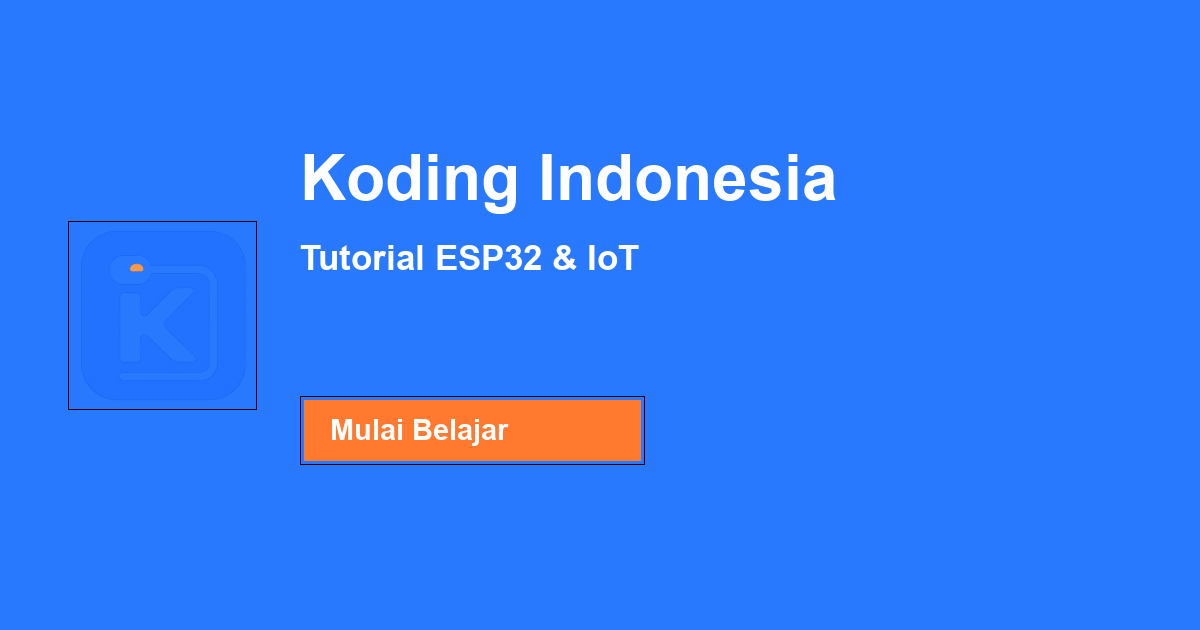
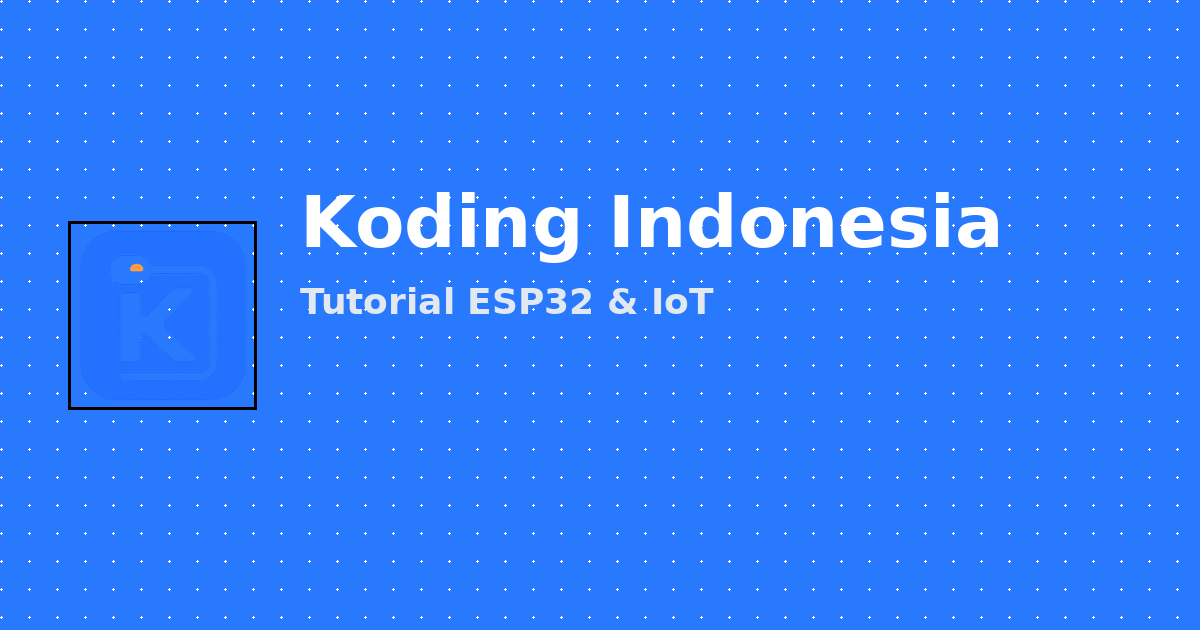
Fix Facebook OG preview missing description.
Simplify og-default image by removing fake CTA button, improve og:description copy, and add og:image:secure_url for better social crawler compatibility.

diff --git a/scripts/generate-brand-assets.php b/scripts/generate-brand-assets.php
@@ -85,66 +85,12 @@ if (is_resource($proc)) {
     echo "Wrote favicon.ico\n";
 }
 
-$ogScript = <<<'PY'
-from PIL import Image, ImageDraw, ImageFont
-import sys
-
-W, H = 1200, 630
-logo_path, og_source, out_path = sys.argv[1], sys.argv[2], sys.argv[3]
-
-def load_font(size, bold=True):
-    candidates = [
-        '/usr/share/fonts/truetype/dejavu/DejaVuSans-Bold.ttf',
-        '/usr/share/fonts/truetype/liberation/LiberationSans-Bold.ttf',
-        'C:/Windows/Fonts/arialbd.ttf',
-        'C:/Windows/Fonts/arial.ttf',
-    ]
-    for path in candidates:
-        try:
-            return ImageFont.truetype(path, size)
-        except OSError:
-            continue
-    return ImageFont.load_default()
-
-img = Image.new('RGB', (W, H), '#2979FF')
-draw = ImageDraw.Draw(img)
-
-# Subtle grid dots
-for x in range(0, W, 28):
-    for y in range(0, H, 28):
-        draw.ellipse([x, y, x + 2, y + 2], fill='#ffffff18')
-
-# Logo block
-logo = Image.open(logo_path).convert('RGBA')
-logo = logo.resize((180, 180), Image.Resampling.LANCZOS)
-lx, ly = 72, (H - 180) // 2
-img.paste(logo, (lx, ly), logo)
-draw.rectangle([lx - 4, ly - 4, lx + 184, ly + 184], outline='#000000', width=3)
-
-# Headline + subtitle
-title_font = load_font(72)
-sub_font = load_font(34, bold=False)
-tx = 300
-draw.text((tx, 150), 'Koding Indonesia', fill='#FFFFFF', font=title_font)
-draw.text((tx, 250), 'Tutorial ESP32 & IoT', fill='#E2E8F0', font=sub_font)
-draw.text((tx, 300), 'Berbahasa Indonesia', fill='#E2E8F0', font=sub_font)
-
-# CTA button (neo-brutal)
-btn_x1, btn_y1, btn_x2, btn_y2 = tx, 390, tx + 340, 470
-draw.rectangle([btn_x1 + 4, btn_y1 + 4, btn_x2 + 4, btn_y2 + 4], fill='#000000')
-draw.rectangle([btn_x1, btn_y1, btn_x2, btn_y2], fill='#FF7A2F', outline='#000000', width=3)
-cta_font = load_font(30)
-draw.text((btn_x1 + 36, btn_y1 + 22), 'Mulai Belajar →', fill='#FFFFFF', font=cta_font)
-
-img.save(out_path, 'PNG')
-PY;
-
+$ogPy = $root . '/scripts/generate-og-image.py';
 $tmpOg = $public . '/og-default-tmp.png';
 $pyCmd = sprintf(
-    'python -c %s %s %s %s',
-    escapeshellarg($ogScript),
+    'python %s %s %s',
+    escapeshellarg($ogPy),
     escapeshellarg($public . '/logo.png'),
-    escapeshellarg($ogSource),
     escapeshellarg($tmpOg)
 );
 
@@ -153,7 +99,7 @@ exec($pyCmd . ' 2>&1', $pyOut, $pyCode);
 if ($pyCode === 0 && is_file($tmpOg)) {
     foreach (['og-default.png', 'images/og-default.png'] as $relative) {
         copy($tmpOg, $public . '/' . $relative);
-        echo "Wrote {$relative} (with headline + CTA)\n";
+        echo "Wrote {$relative} (clean headline layout)\n";
     }
     unlink($tmpOg);
     $pyOk = true;
@@ -188,16 +134,11 @@ if (! $pyOk) {
     }
 
     if ($font) {
-        imagettftext($canvas, 48, 0, 300, 200, $white, $font, 'Koding Indonesia');
-        imagettftext($canvas, 26, 0, 300, 270, $white, $font, 'Tutorial ESP32 & IoT');
-        imagefilledrectangle($canvas, 304, 400, 640, 460, $orange);
-        imagerectangle($canvas, 300, 396, 644, 464, $black);
-        imagettftext($canvas, 22, 0, 330, 440, $white, $font, 'Mulai Belajar');
+        imagettftext($canvas, 48, 0, 300, 220, $white, $font, 'Koding Indonesia');
+        imagettftext($canvas, 26, 0, 300, 290, $white, $font, 'Tutorial ESP32 & IoT');
     } else {
-        imagestring($canvas, 5, 300, 180, 'Koding Indonesia', $white);
-        imagestring($canvas, 4, 300, 250, 'Tutorial ESP32 & IoT', $white);
-        imagefilledrectangle($canvas, 300, 390, 640, 450, $orange);
-        imagestring($canvas, 4, 330, 410, 'Mulai Belajar', $white);
+        imagestring($canvas, 5, 300, 200, 'Koding Indonesia', $white);
+        imagestring($canvas, 4, 300, 270, 'Tutorial ESP32 & IoT', $white);
     }
 
     foreach (['og-default.png', 'images/og-default.png'] as $relative) {

diff --git a/scripts/generate-og-image.py b/scripts/generate-og-image.py
@@ -1,0 +1,42 @@
+from PIL import Image, ImageDraw, ImageFont
+import sys
+
+W, H = 1200, 630
+logo_path, out_path = sys.argv[1], sys.argv[2]
+
+
+def load_font(size, bold=True):
+    candidates = [
+        '/usr/share/fonts/truetype/dejavu/DejaVuSans-Bold.ttf',
+        '/usr/share/fonts/truetype/liberation/LiberationSans-Bold.ttf',
+        'C:/Windows/Fonts/arialbd.ttf',
+        'C:/Windows/Fonts/arial.ttf',
+    ]
+    for path in candidates:
+        try:
+            return ImageFont.truetype(path, size)
+        except OSError:
+            continue
+    return ImageFont.load_default()
+
+
+img = Image.new('RGB', (W, H), '#2979FF')
+draw = ImageDraw.Draw(img)
+
+for x in range(0, W, 28):
+    for y in range(0, H, 28):
+        draw.ellipse([x, y, x + 2, y + 2], fill='#ffffff18')
+
+logo = Image.open(logo_path).convert('RGBA')
+logo = logo.resize((180, 180), Image.Resampling.LANCZOS)
+lx, ly = 72, (H - 180) // 2
+img.paste(logo, (lx, ly), logo)
+draw.rectangle([lx - 4, ly - 4, lx + 184, ly + 184], outline='#000000', width=3)
+
+title_font = load_font(72)
+sub_font = load_font(36, bold=False)
+tx = 300
+draw.text((tx, 180), 'Koding Indonesia', fill='#FFFFFF', font=title_font)
+draw.text((tx, 280), 'Tutorial ESP32 & IoT', fill='#E2E8F0', font=sub_font)
+
+img.save(out_path, 'PNG')

diff --git a/resources/views/components/layouts/app.blade.php b/resources/views/components/layouts/app.blade.php
@@ -18,11 +18,12 @@
         $pageTitle = $title ?? 'Koding Indonesia — Tutorial ESP32 & IoT';
         $metaDescription = $description ?? 'Belajar ESP32, Arduino, IoT, dan pemrograman dalam Bahasa Indonesia. Tutorial praktis step-by-step gratis untuk pemula hingga mahir.';
         $shareTitle = $ogTitle ?? 'Koding Indonesia';
-        $defaultShareDescription = 'Tutorial ESP32, Arduino & IoT berbahasa Indonesia. Konten praktis gratis untuk pemula hingga mahir.';
+        $defaultShareDescription = 'Belajar ESP32, Arduino, dan IoT dengan tutorial praktis berbahasa Indonesia. Gratis untuk pemula hingga mahir.';
         $pageDescription = $description ?? null;
         $shareDescription = $ogDescription ?? ($pageDescription
             ? \Illuminate\Support\Str::limit(strip_tags($pageDescription), 120, '…')
             : $defaultShareDescription);
+        $shareImage = $ogImage ?? asset('og-default.png');
     @endphp
     <title>{{ $pageTitle }}</title>
     <meta name="description" content="{{ $metaDescription }}">
@@ -30,7 +31,10 @@
     {{-- OG / Social --}}
     <meta property="og:title" content="{{ $shareTitle }}">
     <meta property="og:description" content="{{ $shareDescription }}">
-    <meta property="og:image" content="{{ $ogImage ?? asset('og-default.png') }}">
+    <meta property="og:image" content="{{ $shareImage }}">
+    @if (str_starts_with($shareImage, 'https://'))
+        <meta property="og:image:secure_url" content="{{ $shareImage }}">
+    @endif
     <meta property="og:image:alt" content="Koding Indonesia — Platform edukasi ESP32, IoT & pemrograman">
     <meta property="og:image:width" content="1200">
     <meta property="og:image:height" content="630">
@@ -43,7 +47,7 @@
     <meta name="twitter:card" content="summary_large_image">
     <meta name="twitter:title" content="{{ $shareTitle }}">
     <meta name="twitter:description" content="{{ $shareDescription }}">
-    <meta name="twitter:image" content="{{ $ogImage ?? asset('og-default.png') }}">
+    <meta name="twitter:image" content="{{ $shareImage }}">
     <meta name="twitter:image:alt" content="Koding Indonesia — Platform edukasi ESP32, IoT & pemrograman">
     <meta name="twitter:site" content="@kodingindonesia">
 

diff --git a/resources/views/home.blade.php b/resources/views/home.blade.php
@@ -1,7 +1,7 @@
 <x-layouts.app
     title="Koding Indonesia — Tutorial ESP32 & IoT"
     description="Belajar ESP32, Arduino, IoT, dan pemrograman dalam Bahasa Indonesia. Tutorial praktis step-by-step gratis untuk pemula hingga mahir."
-    ogDescription="Tutorial ESP32, Arduino & IoT berbahasa Indonesia. Konten praktis gratis untuk pemula hingga mahir."
+    ogDescription="Belajar ESP32, Arduino, dan IoT dengan tutorial praktis berbahasa Indonesia. Gratis untuk pemula hingga mahir."
 >
 
     {{-- ═══════════════════════════════════ HERO ═══════════════════════════════════ --}}